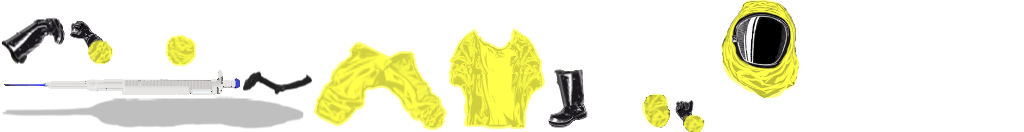
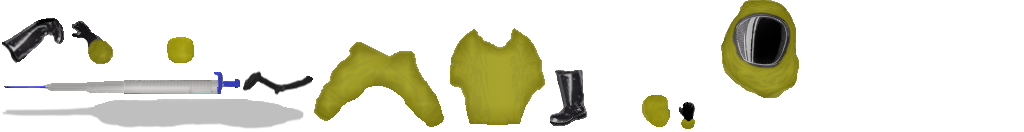
Character art updated; minor balance tweaks

diff --git a/src/main/java/hydrahatrack/clintock/characters/TheClintock.java b/src/main/java/hydrahatrack/clintock/characters/TheClintock.java
@@ -70,12 +70,12 @@ public class TheClintock extends CustomPlayer {
         ArrayList<String> startingDeck = new ArrayList<>();
 
         startingDeck.add(ClintockStrike.ID);
-//        startingDeck.add(ClintockStrike.ID);
-//        startingDeck.add(ClintockStrike.ID);
-//        startingDeck.add(ClintockStrike.ID);
-//        startingDeck.add(ClintockDefend.ID);
-//        startingDeck.add(ClintockDefend.ID);
-//        startingDeck.add(ClintockDefend.ID);
+        startingDeck.add(ClintockStrike.ID);
+        startingDeck.add(ClintockStrike.ID);
+        startingDeck.add(ClintockStrike.ID);
+        startingDeck.add(ClintockDefend.ID);
+        startingDeck.add(ClintockDefend.ID);
+        startingDeck.add(ClintockDefend.ID);
         startingDeck.add(ClintockDefend.ID);
         startingDeck.add(BaseSynthesis.ID);
         startingDeck.add(Replenish.ID);
@@ -103,18 +103,18 @@ public class TheClintock extends CustomPlayer {
 //        startingDeck.add(Efflux.ID);
 //        startingDeck.add(EnergyDrink.ID);
 //        startingDeck.add(EnergyMetabolism.ID);
-        startingDeck.add(Epidemic.ID);
+//        startingDeck.add(Epidemic.ID);
 //        startingDeck.add(Eureka.ID);
 //        startingDeck.add(Excavate.ID);
 //        startingDeck.add(Fluorescein.ID);
 //        startingDeck.add(GeneAmplification.ID);
 //        startingDeck.add(GeneticPollution.ID);
-        startingDeck.add(GeneticsLab.ID);
+//        startingDeck.add(GeneticsLab.ID);
 //        startingDeck.add(GlucoseToxicity.ID);
 //        startingDeck.add(Immunodeficiency.ID);
-        startingDeck.add(ImpulsiveShot.ID);
+//        startingDeck.add(ImpulsiveShot.ID);
 //        startingDeck.add(Interrupt.ID);
-        startingDeck.add(Irradiate.ID);
+//        startingDeck.add(Irradiate.ID);
 //        startingDeck.add(Jab.ID);
 //        startingDeck.add(Ketosis.ID);
 //        startingDeck.add(LifeSager.ID);
@@ -136,7 +136,7 @@ public class TheClintock extends CustomPlayer {
 //        startingDeck.add(SampleSwap.ID);
 //        startingDeck.add(SinsheimerT3.ID);
 //        startingDeck.add(Splinter.ID);
-       startingDeck.add(Sting.ID);
+//       startingDeck.add(Sting.ID);
 //        startingDeck.add(SuperSeqX1.ID);
 //        startingDeck.add(SuspendAnimation.ID);
 //        startingDeck.add(TelomereErosion.ID);

diff --git a/src/main/java/hydrahatrack/clintock/cards/DegradedPrimer.java b/src/main/java/hydrahatrack/clintock/cards/DegradedPrimer.java
@@ -20,8 +20,8 @@ public class DegradedPrimer extends CustomCard {
     private static final CardStrings cardStrings = CardCrawlGame.languagePack.getCardStrings(ID);
     public static final String NAME = cardStrings.NAME;
     public static final String DESCRIPTION = cardStrings.DESCRIPTION;
-    private static final int COST = 1;
-    private static final int ATTACK_DMG = 6;
+    private static final int COST = 2;
+    private static final int ATTACK_DMG = 8;
     private static final int POISON_AMOUNT = 2;
     private static final int UPGRADE_PLUS_ATTACK_DMG = 3;
     private static final int UPGRADE_PLUS_POISON_AMOUNT = 1;

diff --git a/src/main/java/hydrahatrack/clintock/cards/VectorFlow.java b/src/main/java/hydrahatrack/clintock/cards/VectorFlow.java
@@ -18,8 +18,8 @@ public class VectorFlow extends CustomCard {
     private static final CardStrings cardStrings = CardCrawlGame.languagePack.getCardStrings(ID);
     public static final String NAME = cardStrings.NAME;
     public static final String DESCRIPTION = cardStrings.DESCRIPTION;
-    private static final int COST = 2;
-    private static final int ATTACK_DMG = 12;
+    private static final int COST = 3;
+    private static final int ATTACK_DMG = 16;
     private static final int UPGRADE_PLUS_ATTACK_DMG = 4;
 
     public VectorFlow() {

diff --git a/src/main/java/hydrahatrack/clintock/cards/Acupuncture.java b/src/main/java/hydrahatrack/clintock/cards/Acupuncture.java
@@ -18,7 +18,7 @@ public class Acupuncture extends CustomCard {
     public static final String NAME = cardStrings.NAME;
     public static final String DESCRIPTION = cardStrings.DESCRIPTION;
     private static final int COST = 1;
-    private static final int ATTACK_DMG = 0;
+    private static final int ATTACK_DMG = 1;
     private static final int ATTACK_COUNT = 7;
     private static final int UPGRADE_PLUS_ATTACK_COUNT = 3;
 

diff --git a/src/main/java/hydrahatrack/clintock/cards/DAMP.java b/src/main/java/hydrahatrack/clintock/cards/DAMP.java
@@ -19,7 +19,7 @@ public class DAMP extends CustomCard {
     public static final String NAME = cardStrings.NAME;
     public static final String DESCRIPTION = cardStrings.DESCRIPTION;
     private static final int COST = 2;
-    private static final int BLOCK_AMOUNT = 9;
+    private static final int BLOCK_AMOUNT = 11;
     private static final int UPGRADE_PLUS_BLOCK_AMOUNT = 3;
 
     public DAMP() {
